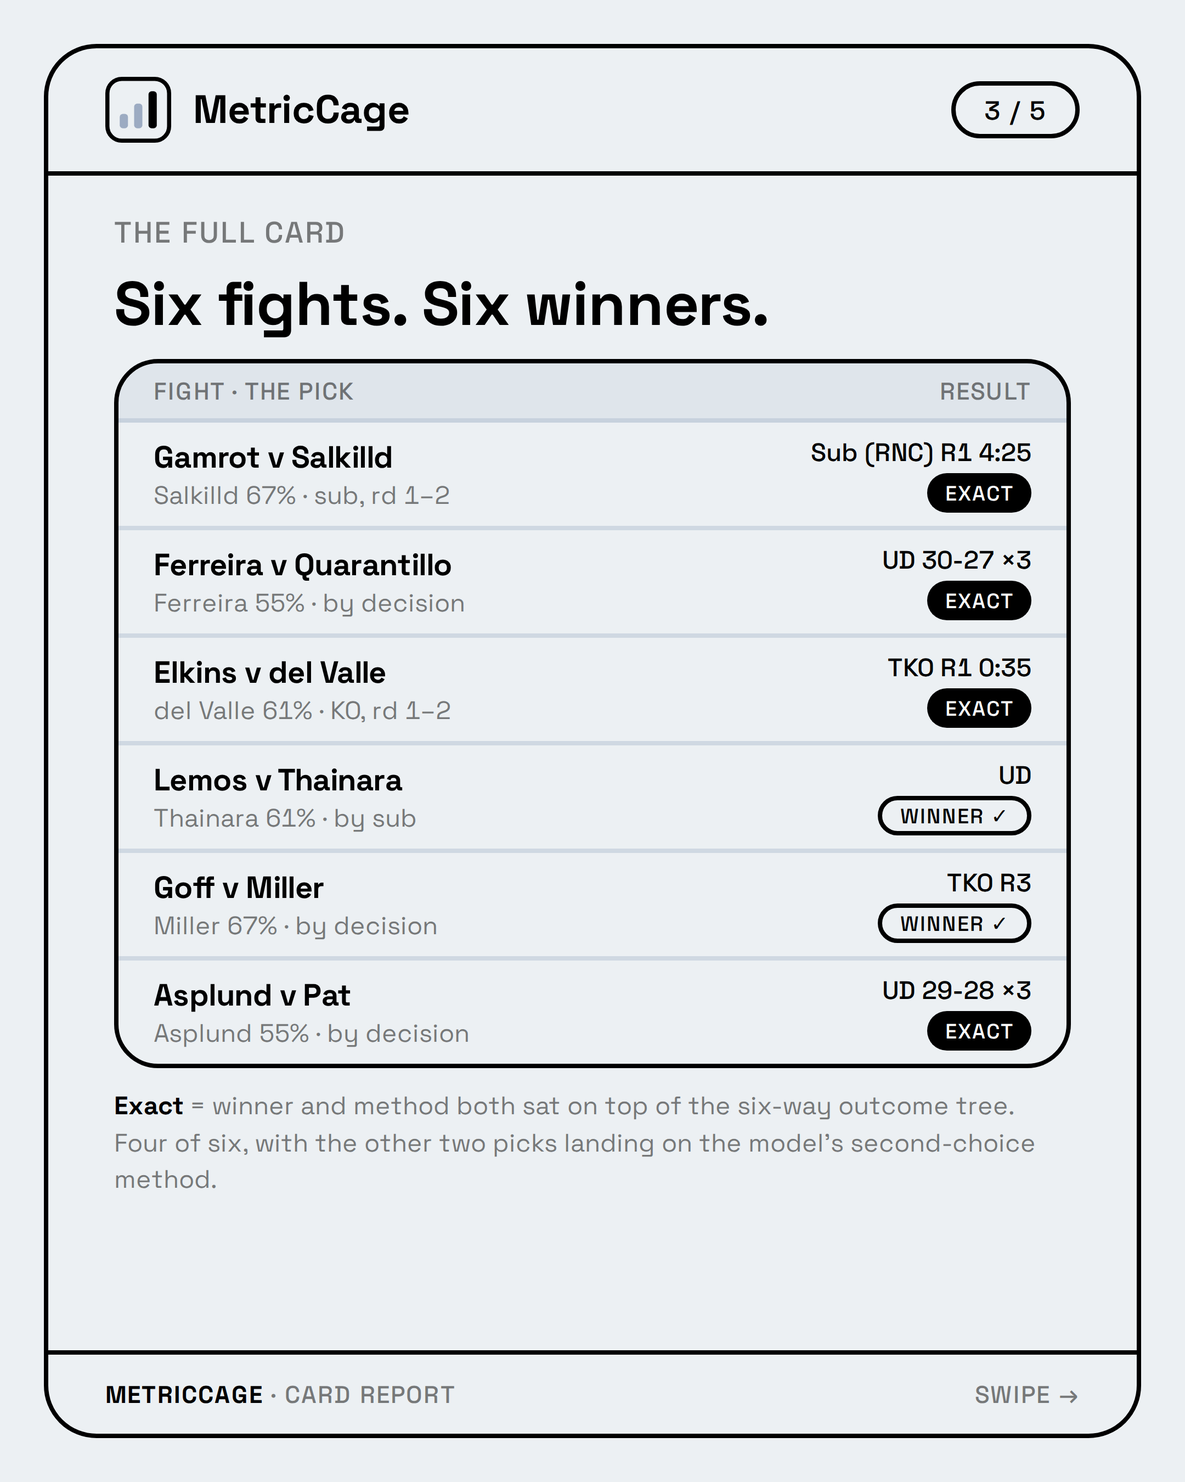
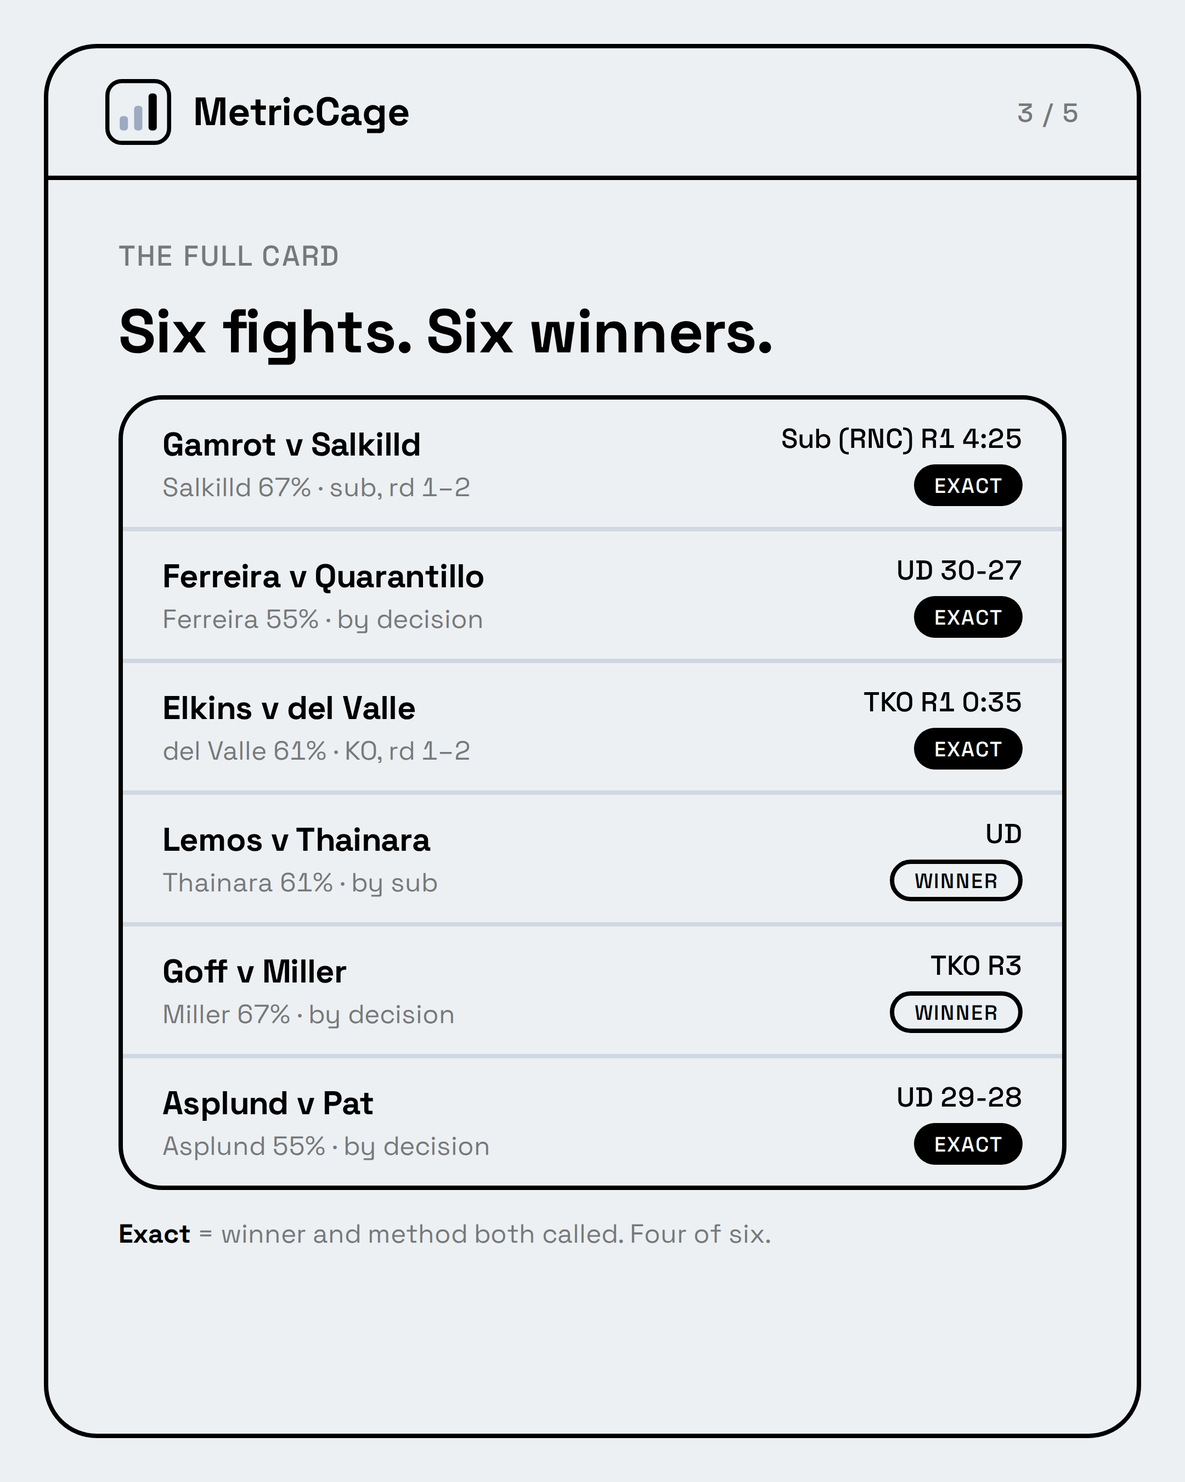
Declutter the carousel
Cover reduced to a pure poster: photo, 6/6, one line, no cell grid or
chips. Footers, swipe cue, checkmarks, table header, and redundant
labels removed; card subtitles get their own line; copy tightened.

Claude-Session: https://claude.ai/code/session_01KmTn1WhYNe9thRKmpXQw5x

diff --git a/social/gamrot-salkilld/slides.html b/social/gamrot-salkilld/slides.html
@@ -17,20 +17,15 @@
   --ink:#000000;
   --white:#FFFFFF;
   --slate:#9CABC2;
-  --fill:#D0D8E2;
   --ink-a50:rgba(0,0,0,.5);
   --ink-a60:rgba(0,0,0,.6);
-  --slate-a15:rgba(156,171,194,.15);
   --slate-a35:rgba(156,171,194,.35);
-  --slate-a60:rgba(156,171,194,.6);
   --white-a60:rgba(255,255,255,.6);
   --white-a35:rgba(255,255,255,.35);
   --stroke:4px;
   --border:var(--stroke) solid var(--ink);
   --border-soft:var(--stroke) solid var(--slate-a35);
-  --r-md:20px;
   --r-lg:40px;
-  --r-xl:56px;
   --r-pill:999px;
   --track-tight:-0.01em;
   --track-wide:0.05em;
@@ -45,139 +40,97 @@ body{background:#c9ced4;font-family:"Space Grotesk",ui-sans-serif,system-ui,sans
 
 /* ---------- chrome ---------- */
 .topbar{display:flex;align-items:center;justify-content:space-between;
-  padding:26px 52px;border-bottom:var(--border)}
+  padding:28px 52px;border-bottom:var(--border)}
 .markrow{display:flex;align-items:center;gap:20px}
 .markrow svg{width:60px;height:60px;display:block}
 .wordmark{font-size:36px;font-weight:700;letter-spacing:var(--track-tight)}
-.pagechip{display:inline-flex;align-items:center;height:52px;padding:0 26px;
-  border:var(--border);border-radius:var(--r-pill);
-  font-size:24px;font-weight:500;letter-spacing:var(--track-wide);color:var(--ink)}
-.ticker{display:flex;gap:44px;padding:20px 52px;border-bottom:var(--border);
-  font-size:22px;font-weight:500;letter-spacing:var(--track-wide);
-  text-transform:uppercase;color:var(--ink-a50);white-space:nowrap;overflow:hidden}
-.ticker b{color:var(--ink);font-weight:700}
-.body{flex:1;padding:44px 60px;display:flex;flex-direction:column;min-height:0}
-.footer{display:flex;align-items:center;justify-content:space-between;gap:30px;
-  padding:22px 52px;border-top:var(--border);
-  font-size:22px;font-weight:500;letter-spacing:var(--track-wide);
-  text-transform:uppercase;color:var(--ink-a50);white-space:nowrap}
-.footer b{color:var(--ink);font-weight:700}
+.pagechip{font-size:24px;font-weight:500;letter-spacing:var(--track-wide);color:var(--ink-a50)}
+.body{flex:1;padding:52px 64px;display:flex;flex-direction:column;min-height:0}
 
 /* ---------- type ---------- */
-.eyebrow{font-size:27px;font-weight:500;letter-spacing:var(--track-wide);
-  text-transform:uppercase;color:var(--ink-a50);margin-bottom:24px}
+.eyebrow{font-size:26px;font-weight:500;letter-spacing:var(--track-wide);
+  text-transform:uppercase;color:var(--ink-a50);margin-bottom:22px}
 .h1{font-size:64px;font-weight:700;letter-spacing:var(--track-tight);line-height:1.08}
-.sub{font-size:31px;line-height:1.4;color:var(--ink-a60)}
-.sub b{color:var(--ink)}
+.h1-sm{font-size:56px}
 
 /* ---------- shared bits ---------- */
-.tag{display:inline-flex;align-items:center;height:48px;padding:0 24px;border-radius:var(--r-pill);
-  font-size:23px;font-weight:500;letter-spacing:var(--track-wide);text-transform:uppercase;white-space:nowrap}
+.tag{display:inline-flex;align-items:center;height:44px;padding:0 22px;border-radius:var(--r-pill);
+  font-size:21px;font-weight:500;letter-spacing:var(--track-wide);text-transform:uppercase;white-space:nowrap}
 .t-hit{background:var(--ink);color:var(--white)}
 .t-win{border:var(--border);color:var(--ink)}
-.t-quiet{background:var(--slate-a15);color:var(--ink-a60)}
-
-.wtable .tag,.angle .tag,.card .kicker .tag{height:42px;padding:0 20px;font-size:21px}
-.wtable .tag{height:36px;padding:0 16px;font-size:19px}
-#s3 .body{padding-top:34px}
-#s1 .body{padding-top:34px;padding-bottom:36px}
-#s1 .eyebrow{margin-bottom:16px}
-#s3 .eyebrow{margin-bottom:18px}
-.h1-sm{font-size:56px}
 
 /* ---------- photos — graded into the paper/slate/ink tritone ---------- */
 .ph{display:block;object-fit:cover;filter:grayscale(1) contrast(1.08) url(#papertone)}
-.ph-band{width:100%;height:245px;border-bottom:var(--border);object-position:50% 32%;
-  filter:grayscale(1) brightness(1.2) contrast(1.05) url(#papertone)}
-.row-card{display:flex;gap:26px;align-items:center}
+.row-card{display:flex;gap:30px;align-items:center}
 .cardtext{flex:1;min-width:0}
 .ph-card{border:var(--stroke) solid var(--slate);border-radius:24px;flex:none}
 
-/* =============== SLIDE 1 — cover =============== */
-.cover{justify-content:space-between}
-.hero-num{font-size:380px;font-weight:700;line-height:.95;letter-spacing:-0.03em;margin:0 0 0 -8px}
-.hero-num span{color:var(--slate)}
-.cover .sub{margin-top:14px;max-width:880px}
-.cells{display:grid;grid-template-columns:1fr 1fr 1fr;gap:16px;margin-top:0}
-.cell{background:var(--ink);color:var(--white);border-radius:24px;
-  padding:18px 26px;display:flex;align-items:center;justify-content:space-between;
-  font-size:24px;font-weight:500;letter-spacing:var(--track-wide);text-transform:uppercase}
-.cell i{font-style:normal;font-weight:700;font-size:27px}
-.cover-chips{display:flex;gap:16px;margin-top:20px}
-
-/* cover as photo background with overlay */
+/* =============== SLIDE 1 — cover: photo background, type overlay =============== */
 #s1 .sheet{position:relative;background:var(--ink)}
 .cover-bg{position:absolute;inset:0;width:100%;height:100%;object-fit:cover;object-position:50% 32%}
 .cover-scrim{position:absolute;inset:0;
-  background:linear-gradient(180deg,rgba(0,0,0,.32) 0%,rgba(0,0,0,.40) 38%,rgba(0,0,0,.84) 74%,rgba(0,0,0,.94) 100%)}
-#s1 .topbar,#s1 .ticker,#s1 .body,#s1 .footer{position:relative;z-index:1}
+  background:linear-gradient(180deg,rgba(0,0,0,.30) 0%,rgba(0,0,0,.28) 42%,rgba(0,0,0,.82) 78%,rgba(0,0,0,.92) 100%)}
+#s1 .topbar,#s1 .ticker,#s1 .body{position:relative;z-index:1}
 #s1 .topbar{border-bottom:var(--stroke) solid var(--white-a35)}
 #s1 .wordmark{color:var(--white)}
-#s1 .pagechip{border:var(--stroke) solid var(--white);color:var(--white)}
-#s1 .ticker{border-bottom:var(--stroke) solid var(--white-a35);color:var(--white-a60)}
-#s1 .ticker b{color:var(--white)}
-#s1 .eyebrow{color:var(--slate)}
-#s1 .hero-num{color:var(--white)}
-#s1 .sub{color:var(--white-a60)}
-#s1 .sub b{color:var(--white)}
-#s1 .cell{background:var(--paper);color:var(--ink)}
-#s1 .cell i{color:var(--ink)}
-#s1 .t-hit{background:var(--paper);color:var(--ink)}
-#s1 .t-win{border:var(--stroke) solid var(--white);color:var(--white)}
-#s1 .footer{border-top:var(--stroke) solid var(--white-a35);color:var(--white-a60)}
-#s1 .footer b{color:var(--white)}
+#s1 .pagechip{color:var(--white-a60)}
+.ticker{display:flex;gap:44px;padding:20px 52px;position:relative;z-index:1;
+  border-bottom:var(--stroke) solid var(--white-a35);
+  font-size:22px;font-weight:500;letter-spacing:var(--track-wide);
+  text-transform:uppercase;color:var(--white-a60);white-space:nowrap;overflow:hidden}
+.ticker b{color:var(--white);font-weight:700}
+.ticker .last{margin-left:auto}
+.cover{justify-content:flex-end;padding-bottom:64px}
+.hero-num{font-size:440px;font-weight:700;line-height:.9;letter-spacing:-0.03em;
+  margin-left:-10px;color:var(--white)}
+.hero-num span{color:var(--slate)}
+.cover-line{margin-top:72px;font-size:42px;font-weight:700;color:var(--white)}
+.cover-sub{margin-top:12px;font-size:29px;color:var(--white-a60)}
 
 /* =============== SLIDE 2 — main event =============== */
-.duo{display:flex;flex-direction:column;gap:20px;margin-top:26px}
-.card{border:var(--border);border-radius:var(--r-lg);padding:26px 36px}
-.card .kicker{font-size:23px;font-weight:500;letter-spacing:var(--track-wide);
-  text-transform:uppercase;color:var(--ink-a50);margin-bottom:12px;
+.duo{display:flex;flex-direction:column;gap:24px;margin-top:30px}
+.card{border:var(--border);border-radius:var(--r-lg);padding:30px 38px}
+.kicker{font-size:22px;font-weight:500;letter-spacing:var(--track-wide);
+  text-transform:uppercase;color:var(--ink-a50);margin-bottom:14px;
   display:flex;align-items:center;justify-content:space-between}
-.card .big{font-size:42px;font-weight:700;letter-spacing:var(--track-tight);line-height:1.1}
-.card .big small{font-weight:500;color:var(--ink-a60);font-size:29px}
-.meter{margin-top:18px;height:42px;border:var(--border);border-radius:var(--r-pill);
+.card .big{font-size:42px;font-weight:700;letter-spacing:var(--track-tight);line-height:1.15}
+.card .big small{display:block;font-weight:500;color:var(--ink-a60);font-size:29px;margin-top:8px}
+.meter{margin-top:22px;height:42px;border:var(--border);border-radius:var(--r-pill);
   background:var(--paper);overflow:hidden}
 .meter i{display:block;height:100%;background:var(--ink);border-radius:0 var(--r-pill) var(--r-pill) 0}
-.meterlabels{display:flex;justify-content:space-between;margin-top:10px;
-  font-size:22px;font-weight:500;color:var(--ink-a50)}
-.meterlabels b{color:var(--ink);font-weight:700}
-.callout{border:var(--border);border-radius:var(--r-lg);padding:26px 36px;margin-top:20px}
-.callout .lead{font-size:28px;font-weight:700;line-height:1.35}
-.callout p{font-size:25px;line-height:1.45;color:var(--ink-a60);margin-top:10px}
+.note{margin-top:34px;padding-top:28px;border-top:var(--border-soft)}
+.note .lead{font-size:29px;font-weight:700;line-height:1.35}
+.note p{font-size:26px;line-height:1.5;color:var(--ink-a60);margin-top:10px}
 
 /* =============== SLIDE 3 — scorecard =============== */
-.wtable{border:var(--border);border-radius:var(--r-lg);overflow:hidden;margin-top:20px}
+.wtable{border:var(--border);border-radius:var(--r-lg);overflow:hidden;margin-top:28px}
 .wtable .row{display:flex;align-items:center;justify-content:space-between;gap:24px;
-  padding:12px 32px;border-bottom:var(--border-soft)}
+  padding:19px 36px;border-bottom:var(--border-soft)}
 .wtable .row:last-child{border-bottom:none}
-.wtable .row.head{background:var(--slate-a15);padding:11px 32px;
-  font-size:22px;font-weight:500;letter-spacing:var(--track-wide);
-  text-transform:uppercase;color:var(--ink-a50)}
-.wtable .m{font-size:28px;font-weight:700;letter-spacing:var(--track-tight)}
-.wtable .p{font-size:23px;color:var(--ink-a50);margin-top:2px}
-.wtable .res{font-size:23px;font-weight:500;text-align:right;white-space:nowrap}
-.wtable .rescol{display:flex;flex-direction:column;align-items:flex-end;gap:4px}
-.foot-note{margin-top:18px;font-size:23px;line-height:1.45;color:var(--ink-a50)}
+.wtable .m{font-size:30px;font-weight:700;letter-spacing:var(--track-tight)}
+.wtable .p{font-size:24px;color:var(--ink-a50);margin-top:4px}
+.wtable .res{font-size:25px;font-weight:500;text-align:right;white-space:nowrap}
+.wtable .rescol{display:flex;flex-direction:column;align-items:flex-end;gap:8px}
+.wtable .tag{height:38px;padding:0 18px;font-size:19px}
+.foot-note{margin-top:24px;font-size:24px;color:var(--ink-a50)}
 .foot-note b{color:var(--ink)}
 
 /* =============== SLIDE 4 — angles =============== */
-.angles{display:flex;flex-direction:column;gap:18px;margin-top:26px}
-.angle{border:var(--border);border-radius:var(--r-lg);padding:22px 34px}
-.angle .kicker{font-size:23px;font-weight:500;letter-spacing:var(--track-wide);
-  text-transform:uppercase;color:var(--ink-a50);margin-bottom:8px;
-  display:flex;align-items:center;justify-content:space-between}
-.angle .line{font-size:29px;font-weight:700;letter-spacing:var(--track-tight);line-height:1.25}
-.angle .det{font-size:24px;color:var(--ink-a60);margin-top:6px;line-height:1.4}
+.angles{display:flex;flex-direction:column;gap:24px;margin-top:30px}
+.angle{border:var(--border);border-radius:var(--r-lg);padding:28px 38px}
+.angle .kicker{margin-bottom:10px}
+.angle .line{font-size:30px;font-weight:700;letter-spacing:var(--track-tight);line-height:1.3}
+.angle .det{font-size:25px;color:var(--ink-a60);margin-top:8px;line-height:1.45}
 
 /* =============== SLIDE 5 — honest panel =============== */
 .panelwrap{flex:1;padding:26px;display:flex;min-height:0}
 .panel{flex:1;background:var(--ink);color:var(--white);border-radius:64px;
-  padding:64px 60px;display:flex;flex-direction:column}
+  padding:68px 64px;display:flex;flex-direction:column}
 .panel .eyebrow{color:var(--slate)}
 .panel .h1{color:var(--white);font-size:58px}
-.panel .prose{font-size:30px;line-height:1.5;color:var(--white-a60);margin-top:28px}
+.panel .prose{font-size:30px;line-height:1.55;color:var(--white-a60);margin-top:30px}
 .panel .prose b{color:var(--white)}
-.bars{margin-top:44px;display:flex;flex-direction:column;gap:30px}
+.bars{margin-top:48px;display:flex;flex-direction:column;gap:34px}
 .barrow .blabel{display:flex;justify-content:space-between;align-items:baseline;
   font-size:24px;font-weight:500;letter-spacing:var(--track-wide);
   text-transform:uppercase;color:var(--white-a60);margin-bottom:14px}
@@ -186,7 +139,7 @@ body{background:#c9ced4;font-family:"Space Grotesk",ui-sans-serif,system-ui,sans
 .btrack i{display:block;height:100%;border-radius:0 var(--r-pill) var(--r-pill) 0}
 .b-exp i{background:var(--slate);width:61.7%}
 .b-act i{background:var(--white);width:100%;border-radius:0}
-.panelquote{margin-top:auto;padding-top:36px;border-top:var(--stroke) solid var(--white-a35);
+.panelquote{margin-top:auto;padding-top:38px;border-top:var(--stroke) solid var(--white-a35);
   font-size:31px;font-weight:700;line-height:1.4;color:var(--white)}
 </style>
 </head>
@@ -213,29 +166,12 @@ body{background:#c9ced4;font-family:"Space Grotesk",ui-sans-serif,system-ui,sans
       </div>
       <span class="pagechip">1 / 5</span>
     </div>
-    <div class="ticker"><span><b>UFC Fight Night</b></span><span>Gamrot v Salkilld</span><span>six fights scored</span><span><b>card report</b></span></div>
+    <div class="ticker"><span><b>UFC Fight Night</b></span><span>Gamrot v Salkilld</span><span class="last">Card report</span></div>
     <div class="body cover">
-      <div>
-        <p class="eyebrow">How the model went</p>
-        <div class="hero-num">6<span>/6</span></div>
-        <p class="sub"><b>Every winner on the card.</b> The best night the model has ever had — and four of the six exact winner-plus-method calls landed too.</p>
-      </div>
-      <div>
-        <div class="cells">
-          <div class="cell">Salkilld <i>✓</i></div>
-          <div class="cell">Ferreira <i>✓</i></div>
-          <div class="cell">del Valle <i>✓</i></div>
-          <div class="cell">Thainara <i>✓</i></div>
-          <div class="cell">Miller <i>✓</i></div>
-          <div class="cell">Asplund <i>✓</i></div>
-        </div>
-        <div class="cover-chips">
-          <span class="tag t-hit">4 of 6 exact hits</span>
-          <span class="tag t-win">Every angle cashed</span>
-        </div>
-      </div>
+      <div class="hero-num">6<span>/6</span></div>
+      <p class="cover-line">Every winner on the card.</p>
+      <p class="cover-sub">Four of six exact on winner and method.</p>
     </div>
-    <div class="footer"><span><b>MetricCage</b> · a probability engine for MMA</span><span>swipe →</span></div>
   </div>
 </div>
 
@@ -255,27 +191,25 @@ body{background:#c9ced4;font-family:"Space Grotesk",ui-sans-serif,system-ui,sans
       <div class="duo">
         <div class="card row-card">
           <div class="cardtext">
-            <p class="kicker"><span>The call — before the fight</span></p>
-            <p class="big">Salkilld · 67% <small>· top outcome: submission, rounds 1–2</small></p>
+            <p class="kicker"><span>The call</span></p>
+            <p class="big">Salkilld · 67% <small>Top outcome: submission, rounds 1–2</small></p>
             <div class="meter"><i style="width:67%"></i></div>
-            <p class="meterlabels"><span>submission led the tree at <b>46%</b></span><span><b>67%</b></span></p>
           </div>
-          <img class="ph ph-card" src="photos/faceoff.jpg" alt="" style="width:250px;height:240px;object-position:50% 22%">
+          <img class="ph ph-card" src="photos/faceoff.jpg" alt="" style="width:250px;height:230px;object-position:50% 22%">
         </div>
         <div class="card row-card">
           <div class="cardtext">
             <p class="kicker"><span>The result</span><span class="tag t-hit">Exact hit</span></p>
-            <p class="big">Salkilld by submission <small>· rear-naked choke · round 1, 4:25</small></p>
+            <p class="big">Salkilld by submission <small>Rear-naked choke, round 1, 4:25</small></p>
           </div>
           <img class="ph ph-card" src="photos/rnc.jpg" alt="" style="width:250px;height:200px;object-position:50% 10%">
         </div>
       </div>
-      <div class="callout">
-        <p class="lead">The method head earned real credit here.</p>
-        <p>Its known blind spot is defaulting to decision. Against a decision-heavy Gamrot it put submission on top anyway — and that is exactly how the fight ended.</p>
+      <div class="note">
+        <p class="lead">The method head earned its credit.</p>
+        <p>Its habit is defaulting to decision. Against a decision-heavy Gamrot it put submission on top at 46%, and that is how the fight ended.</p>
       </div>
     </div>
-    <div class="footer"><span><b>MetricCage</b> · card report</span><span>swipe →</span></div>
   </div>
 </div>
 
@@ -293,14 +227,13 @@ body{background:#c9ced4;font-family:"Space Grotesk",ui-sans-serif,system-ui,sans
       <p class="eyebrow">The full card</p>
       <h2 class="h1 h1-sm">Six fights. Six winners.</h2>
       <div class="wtable">
-        <div class="row head"><span>Fight · the pick</span><span>Result</span></div>
         <div class="row">
           <div><p class="m">Gamrot v Salkilld</p><p class="p">Salkilld 67% · sub, rd 1–2</p></div>
           <div class="rescol"><p class="res">Sub (RNC) R1 4:25</p><span class="tag t-hit">Exact</span></div>
         </div>
         <div class="row">
           <div><p class="m">Ferreira v Quarantillo</p><p class="p">Ferreira 55% · by decision</p></div>
-          <div class="rescol"><p class="res">UD 30-27 ×3</p><span class="tag t-hit">Exact</span></div>
+          <div class="rescol"><p class="res">UD 30-27</p><span class="tag t-hit">Exact</span></div>
         </div>
         <div class="row">
           <div><p class="m">Elkins v del Valle</p><p class="p">del Valle 61% · KO, rd 1–2</p></div>
@@ -308,20 +241,19 @@ body{background:#c9ced4;font-family:"Space Grotesk",ui-sans-serif,system-ui,sans
         </div>
         <div class="row">
           <div><p class="m">Lemos v Thainara</p><p class="p">Thainara 61% · by sub</p></div>
-          <div class="rescol"><p class="res">UD</p><span class="tag t-win">Winner ✓</span></div>
+          <div class="rescol"><p class="res">UD</p><span class="tag t-win">Winner</span></div>
         </div>
         <div class="row">
           <div><p class="m">Goff v Miller</p><p class="p">Miller 67% · by decision</p></div>
-          <div class="rescol"><p class="res">TKO R3</p><span class="tag t-win">Winner ✓</span></div>
+          <div class="rescol"><p class="res">TKO R3</p><span class="tag t-win">Winner</span></div>
         </div>
         <div class="row">
           <div><p class="m">Asplund v Pat</p><p class="p">Asplund 55% · by decision</p></div>
-          <div class="rescol"><p class="res">UD 29-28 ×3</p><span class="tag t-hit">Exact</span></div>
+          <div class="rescol"><p class="res">UD 29-28</p><span class="tag t-hit">Exact</span></div>
         </div>
       </div>
-      <p class="foot-note"><b>Exact</b> = winner and method both sat on top of the six-way outcome tree. Four of six, with the other two picks landing on the model's second-choice method.</p>
+      <p class="foot-note"><b>Exact</b> = winner and method both called. Four of six.</p>
     </div>
-    <div class="footer"><span><b>MetricCage</b> · card report</span><span>swipe →</span></div>
   </div>
 </div>
 
@@ -340,31 +272,29 @@ body{background:#c9ced4;font-family:"Space Grotesk",ui-sans-serif,system-ui,sans
       <h2 class="h1">Every angle cashed.</h2>
       <div class="angles">
         <div class="angle">
-          <p class="kicker"><span>Value single — the lone edge flag</span><span class="tag t-hit">Cashed</span></p>
+          <p class="kicker"><span>Value single</span><span class="tag t-hit">Cashed</span></p>
           <p class="line">Salkilld −145</p>
-          <p class="det">Model 67% against a market near 57% — won by first-round submission.</p>
+          <p class="det">Model 67% against a market near 57%. Won by first-round submission.</p>
         </div>
         <div class="angle">
           <p class="kicker"><span>Parlay anchors</span><span class="tag t-hit">3 / 3</span></p>
           <p class="line">del Valle · Miller · Thainara</p>
-          <p class="det">The three anchors all came home.</p>
         </div>
         <div class="angle row-card">
           <div class="cardtext">
             <p class="kicker"><span>Props</span><span class="tag t-hit">2 / 2</span></p>
-            <p class="line">Ferreira–Quarantillo to decision · 57% ✓</p>
-            <p class="line">Gamrot–Salkilld doesn't · 74% ✓</p>
+            <p class="line">Ferreira–Quarantillo to decision · 57%</p>
+            <p class="line">Gamrot–Salkilld inside the distance · 74%</p>
           </div>
           <img class="ph ph-card" src="photos/ferreira.jpg" alt="" style="width:150px;height:170px;object-position:50% 8%">
         </div>
         <div class="angle">
-          <p class="kicker"><span>Weight-cut overlay</span><span class="tag t-win">Right way</span></p>
-          <p class="line">Lemos: three attempts to make 115.5, age 39</p>
-          <p class="det">The overlay pointed away from Lemos. Thainara won.</p>
+          <p class="kicker"><span>Weight-cut overlay</span></p>
+          <p class="line">Lemos: three attempts at 115.5, age 39</p>
+          <p class="det">Pointed away from Lemos. Thainara won.</p>
         </div>
       </div>
     </div>
-    <div class="footer"><span><b>MetricCage</b> · card report</span><span>swipe →</span></div>
   </div>
 </div>
 
@@ -380,9 +310,9 @@ body{background:#c9ced4;font-family:"Space Grotesk",ui-sans-serif,system-ui,sans
     </div>
     <div class="panelwrap">
       <div class="panel">
-        <p class="eyebrow">Now the honest bit</p>
+        <p class="eyebrow">The honest bit</p>
         <h2 class="h1">One sweep is not a new baseline.</h2>
-        <p class="prose">Every pick on this card was tagged <b>low-confidence</b>. The stated probabilities implied about <b>3.7 expected wins</b> from six fights. Six happened — a great night, and partly run-good. It does not mean the 55–67% numbers should have been higher.</p>
+        <p class="prose">Every pick on this card was tagged <b>low-confidence</b>. The stated probabilities implied about <b>3.7 expected wins</b> from six fights. Six happened. A great night, and partly run-good.</p>
         <div class="bars">
           <div class="barrow b-exp">
             <p class="blabel"><span>What the probabilities implied</span><b>3.7</b></p>
@@ -396,7 +326,6 @@ body{background:#c9ced4;font-family:"Space Grotesk",ui-sans-serif,system-ui,sans
         <p class="panelquote">The goal is not to be right more often. It is to be right about how often you will be right.</p>
       </div>
     </div>
-    <div class="footer"><span><b>MetricCage</b> · a probability engine for MMA</span><span>full report on the site</span></div>
   </div>
 </div>
 
